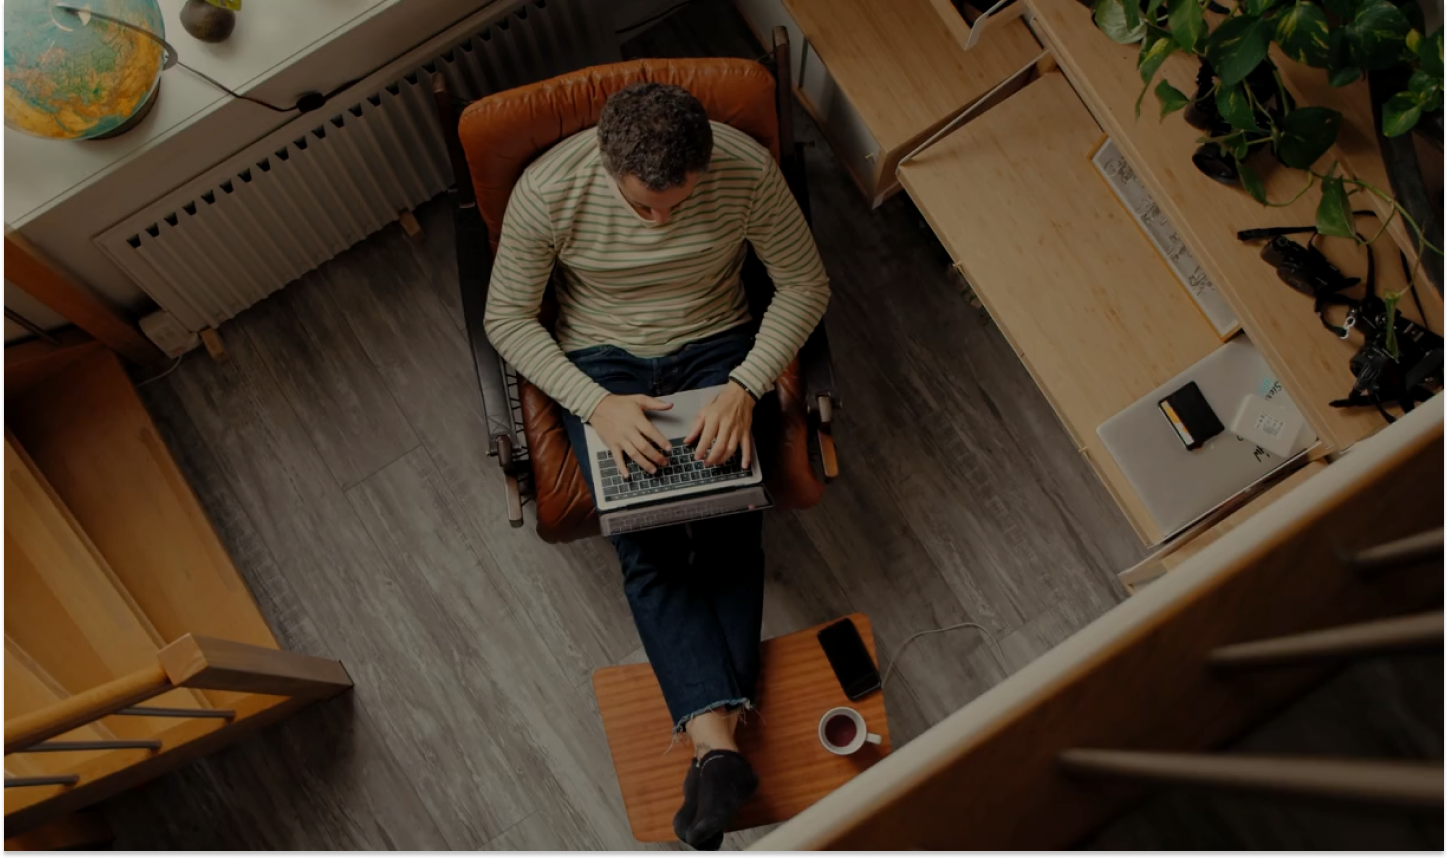
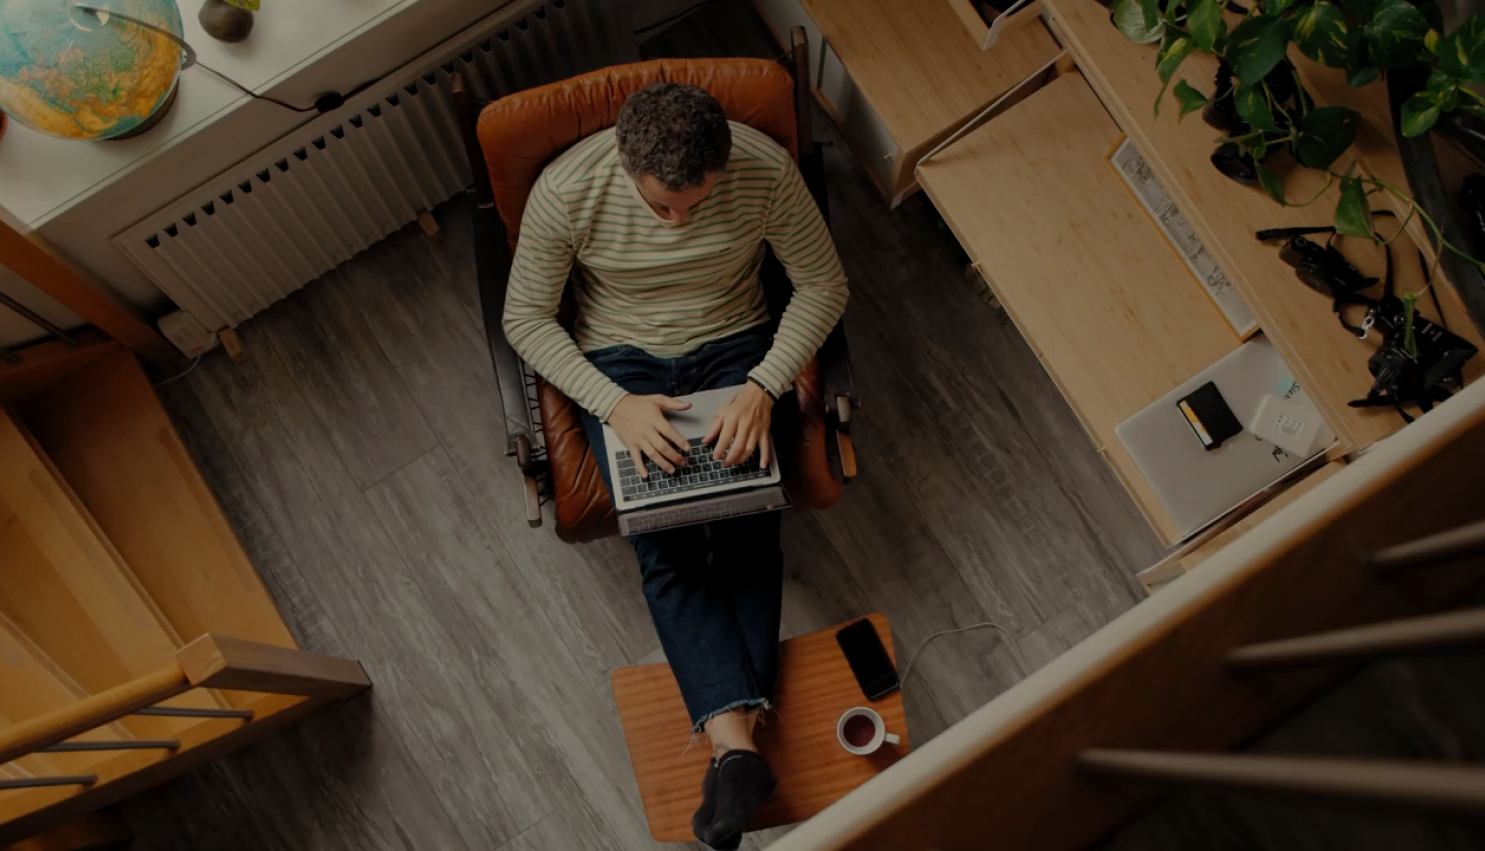
add cover img size

diff --git a/assets/css/style.css b/assets/css/style.css
@@ -10,10 +10,11 @@
 
 .bg-img-1 {
     background-image: url(/assets/images/png/section-1-person-bg-img.png);
-    background-size: cover;
+    background-size: cover !important;
     background-repeat: no-repeat;
     background-position: center;
     height: 851px;
+    width: 100%;
 }
 
 .logo {
@@ -23,7 +24,9 @@
 .max-w-1432 {
     max-width: 1432px !important;
 }
-
+.bg-dark-blue{
+    background: #0E1122;
+}
 .main-heading {
     font-family: Abril Display;
     font-size: 62.12px;
@@ -391,28 +394,6 @@
 .max-w-218 {
     max-width: 218px;
 }
-
-/* preloder details  */
-#preloader {
-    position: fixed;
-    top: 0;
-    left: 0;
-    width: 100%;
-    height: 100%;
-    background-color: #282c34;
-    display: flex;
-    justify-content: center;
-    align-items: center;
-    z-index: 9999;
-}
-
-.loader {
-    width: 60px;
-    height: 60px;
-    background-color: greenyellow;
-    animation: rotate 1.2s linear infinite;
-}
-
 .dis-none {
     display: none;
 }

diff --git a/index.html b/index.html
@@ -87,7 +87,7 @@
         </div>
       </div>
     </section>
-    <section class="bg-black mt-10">
+    <section class="bg-dark-blue mt-10">
       <div class="container max-w-739 pt-46 pb-54">
         <div class="row">
           <div class="col-12 col-lg-5">
@@ -413,9 +413,6 @@
         </div>
       </div>
     </section>
-    <div id="preloader">
-      <div class="loader"></div>
-    </div>
   </body>
   <script src="./assets/js/app.js"></script>
   <!-- bootstrap link  -->
